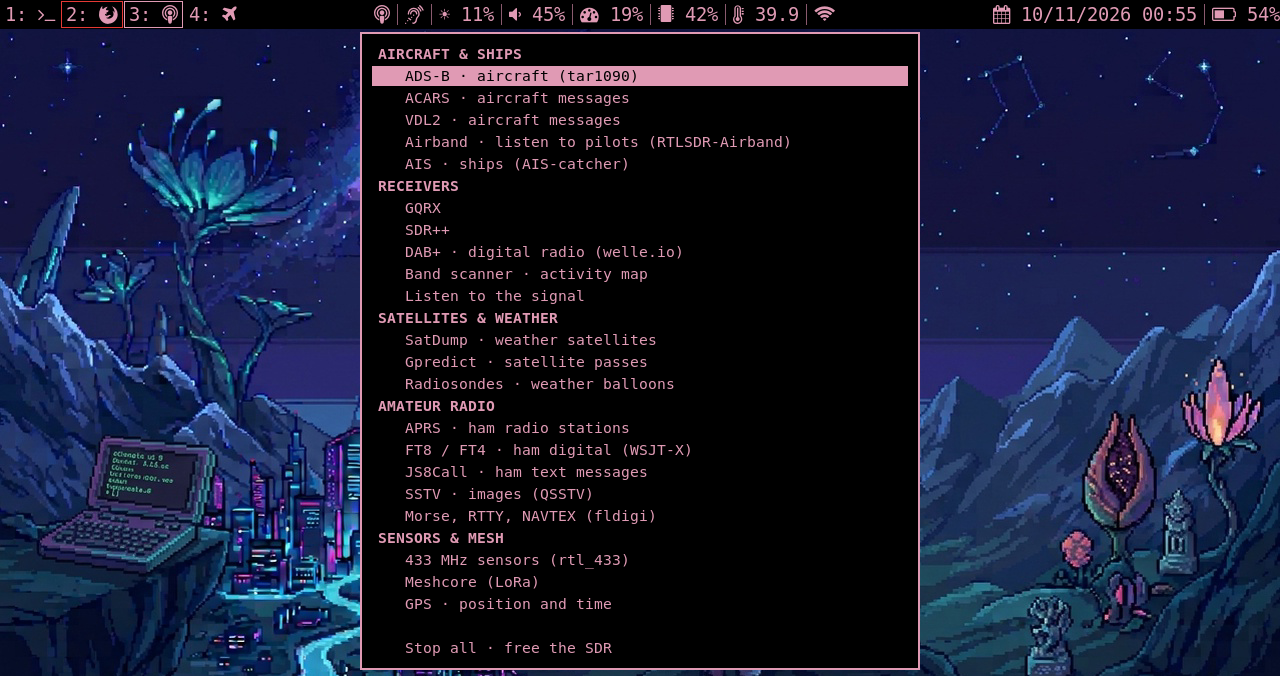
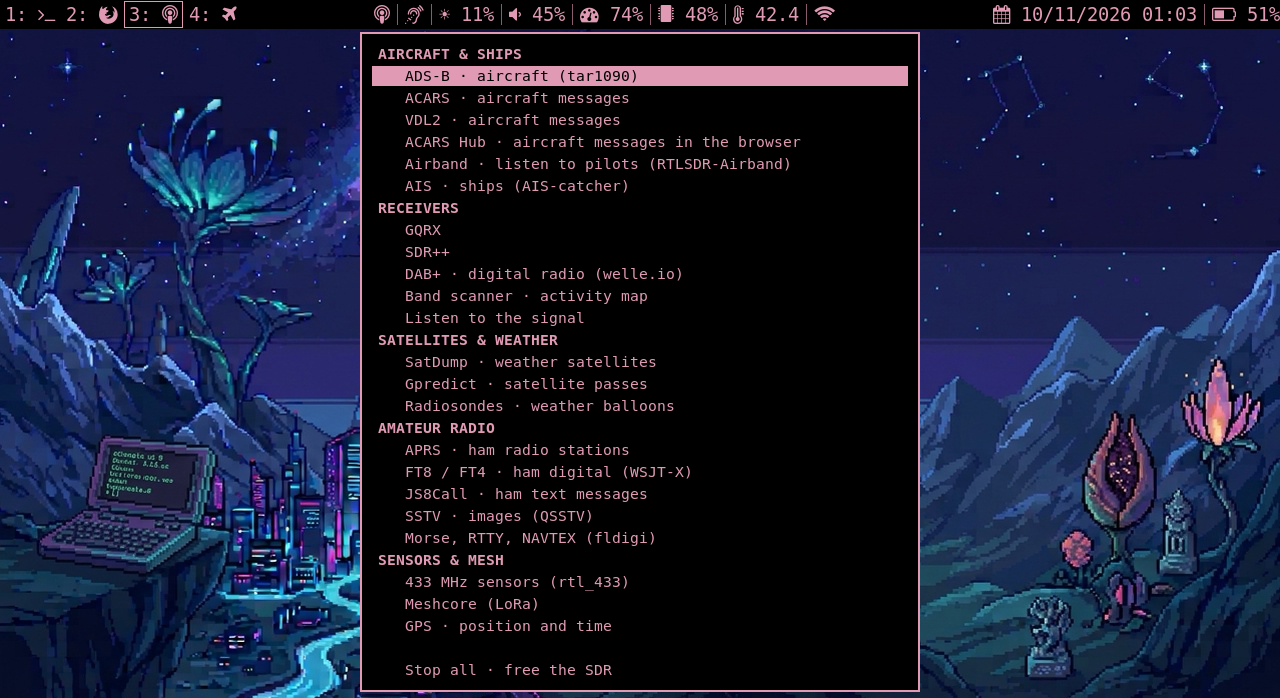
feat(radio): add ACARS Hub, a web view of the ACARS / VDL2 messages
New "ACARS Hub" entry: asks VDL2 or ACARS, starts the decoder in its
terminal and the ACARS Hub Docker container, then opens
http://localhost:8080 (search, statistics, alerts, aircraft map).

- acarsdec / dumpvdl2 always send JSON to 127.0.0.1:5550 / 5555 too,
  so the plain ACARS and VDL2 entries feed the hub when it runs
- container created on first use from the settings (system time zone,
  TAR1090_URL for the ADS-B map); database in ~/.local/share/acarshub;
  ports published on 127.0.0.1 only, nothing is sent out
- "Stop all" stops the container; docker through its group or
  password-less sudo
- install-sdr-tools.sh pulls the image when Docker is installed;
  install.sh reports it
- strings in the four languages; README and screenshot

diff --git a/README.md b/README.md
@@ -71,7 +71,7 @@ takes any custom `#RRGGBB` (`--color '#A0C4FF'`): it warns when a color is too d
 | Battery | icon follows the level, red below 15 %, warning at 10 % | power menu |
 
 **Radio launcher** — apps grouped by use: aircraft & ships (ADS-B with readsb + tar1090, ACARS,
-VDL2, airband voice with RTLSDR-Airband, AIS with AIS-catcher), receivers (GQRX, SDR++, DAB+ with
+VDL2, ACARS Hub, airband voice with RTLSDR-Airband, AIS with AIS-catcher), receivers (GQRX, SDR++, DAB+ with
 welle.io, band scanner, listen to the signal), satellites & weather (SatDump, Gpredict, radiosondes
 with auto_rx), amateur radio (APRS with direwolf, including the ISS, FT8 / FT4 with WSJT-X, JS8Call,
 SSTV with QSSTV, Morse / RTTY / NAVTEX with fldigi), sensors & mesh (433 MHz with rtl_433, Meshcore,
@@ -135,6 +135,7 @@ Optional, per radio app. A missing app is shown as `(not installed)` in the laun
 | APRS | `direwolf` + `rtl-sdr` (`rtl_fm`) | yes |
 | 433 MHz sensors | `rtl-433` | yes |
 | ACARS / VDL2 | `acarsdec` / `dumpvdl2` (+ `libacars`), built from source | yes |
+| ACARS Hub | Docker + image `ghcr.io/sdr-enthusiasts/docker-acarshub` (about 300 MB on disk) | the image, when Docker is installed |
 | Airband voice | [RTLSDR-Airband](https://github.com/rtl-airband/RTLSDR-Airband) 7.0.0, built from source | yes |
 | AIS (ships) | AIS-catcher, official `.deb` from [GitHub](https://github.com/jvde-github/AIS-catcher/releases) (0.70) | yes |
 | DAB+ | `welle.io` | yes |
@@ -248,7 +249,7 @@ Reinstalling or updating keeps your values.
 - **One app per dongle**: a dongle can only be opened by one program. The launcher stops the running
   apps before starting another; "Stop all" frees everything. ADS-B keeps running when the new app uses
   another dongle.
-- **Several dongles**: ADS-B, ACARS, VDL2, airband, AIS, APRS, 433 MHz, the band scanner and the
+- **Several dongles**: ADS-B, ACARS, VDL2, ACARS Hub, airband, AIS, APRS, 433 MHz, the band scanner and the
   audio modes ask which dongle to use when more than one is plugged in (`SDR_DEVICE` is preselected).
   For ADS-B, the choice is written to `/etc/default/readsb` (`--device <serial>`, with `sudo`). GQRX,
   SDR++, SatDump and auto_rx keep choosing their device in their own settings; welle.io takes the
@@ -270,6 +271,14 @@ Reinstalling or updating keeps your values.
 - **APRS** is receive-only (`config/direwolf/sdr.conf` uses the placeholder call sign `N0CALL`). It
   listens on the region's frequency (144.390 MHz in the USA and Canada, 144.800 MHz elsewhere) or on
   the ISS digipeater (145.825 MHz), heard when the station passes over (see Gpredict).
+- **ACARS Hub** shows the ACARS or VDL2 messages in the browser (<http://localhost:8080>): search,
+  statistics, alerts and, while ADS-B runs, a map of the aircraft that sent them. The entry asks for
+  VDL2 or ACARS, starts the decoder in its terminal and the ACARS Hub container (Docker). The container
+  is created on first use (time zone of the system, `TAR1090_URL` for the map) and keeps its database
+  in `~/.local/share/acarshub` (7 days). Its ports are published on 127.0.0.1 only and it sends nothing
+  out; "Stop all" stops it. The ACARS and VDL2 entries feed it too while it runs. Docker commands use
+  the `docker` group or password-less `sudo`. To recreate the container after changing a setting:
+  `docker rm acarshub`.
 - **AIS** decodes ships on 161.975 / 162.025 MHz and shows them on a map at <http://localhost:8100>.
   It is started with `-X off`: AIS-catcher would otherwise share what it receives with aiscatcher.org.
 - **Airband voice** (RTLSDR-Airband) scans a list of AM channels and plays the active one on the
